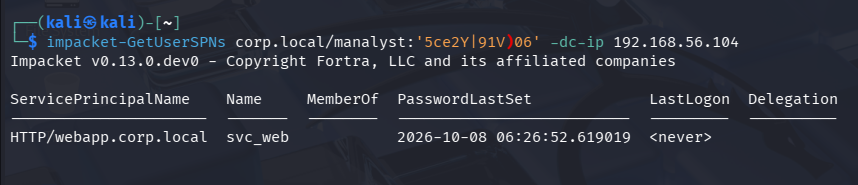
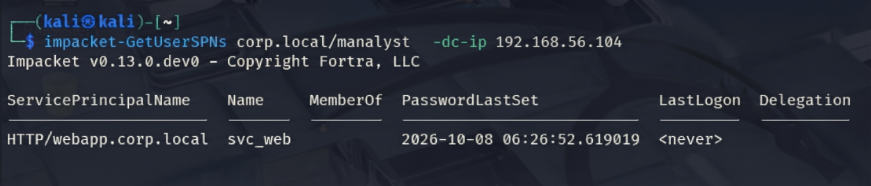
Update AD writeup

diff --git a/active-directory-lab/active-directory-kerberoasting-detection.md b/active-directory-lab/active-directory-kerberoasting-detection.md
@@ -56,7 +56,7 @@ Accounts with SPNs can receive Kerberos service tickets. These tickets are relev
 
 ## 4. Kerberoasting Simulation
 
-First, an enumeration of users and services was made using impacket, and the SPN `svc_web` was found.
+First, an enumeration of users and services was made using impacket, and the SPN `HTTP/webapp.corp.local` was found.
 
 ![Kerberoasting TGS request](images/spn-users-enum.png)
 
